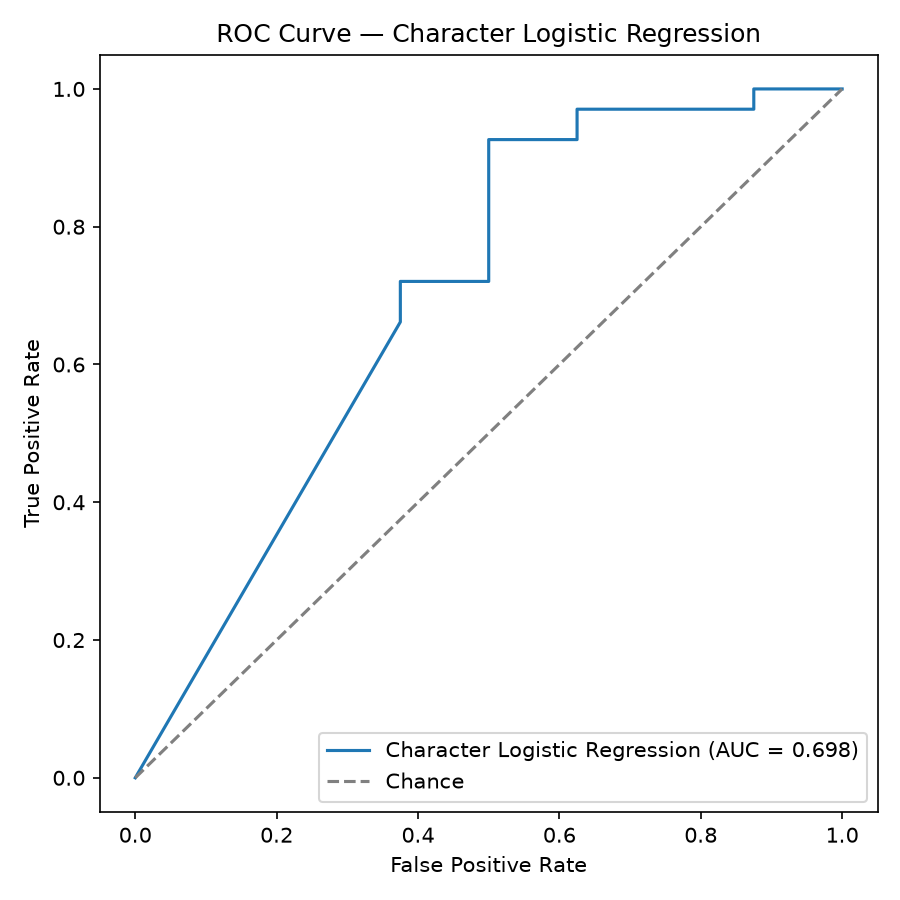
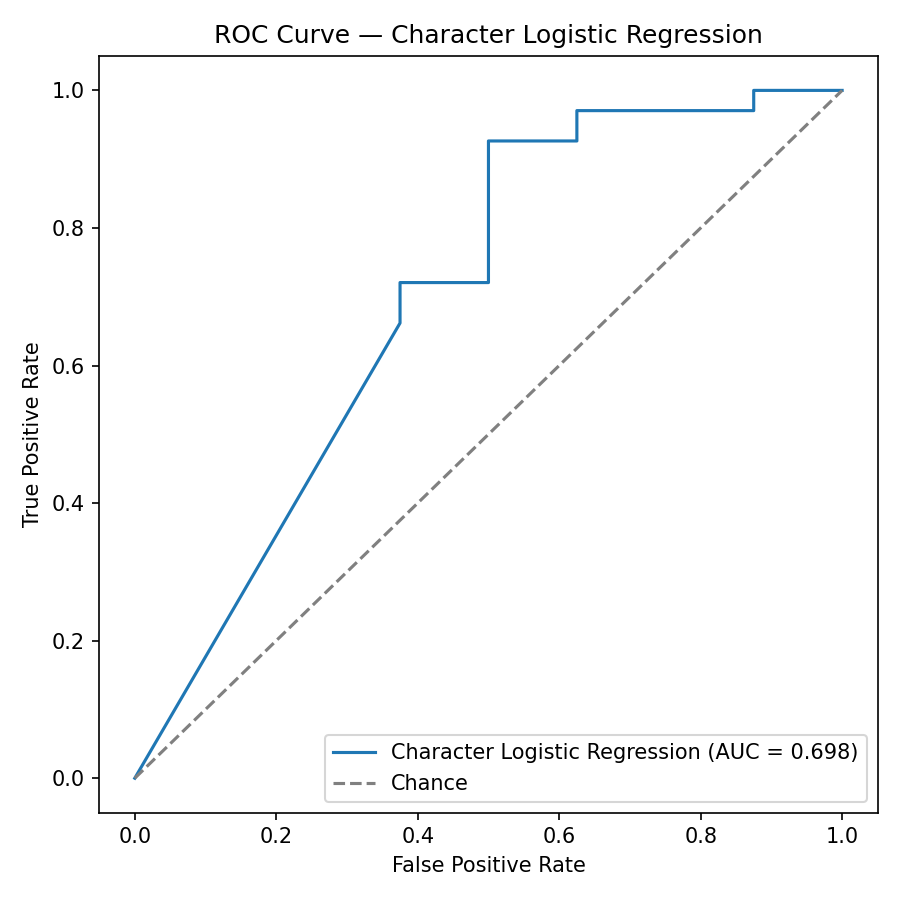
Fix champion model Windows path bug and promotion bootstrap gate
- Add bootstrap check to promote_model task in ml_pipeline_dag.py so a
  fresh local MLflow registry doesn't have to beat the committed
  champion benchmark on its first run
- Retrain final candidates inside a Linux container (via docker compose
  run) instead of native Windows Python, since MLflow bakes the OS's
  path separator into the model artifact manifest at logging time --
  this was the root cause of the char_logistic.joblib backslash error
  breaking model loading in the Linux API container
- Update run_full_pipeline.ps1 to train/register the champion model
  inside the api container rather than the host Windows environment
- Replace deprecated penalty='l1' with l1_ratio=1 in
  build_char_logistic per sklearn 1.8 LogisticRegression API

diff --git a/dags/ml_pipeline_dag.py b/dags/ml_pipeline_dag.py
@@ -108,6 +108,33 @@ def _promote_model(**context):
         logger.warning("Candidate run %s has no validation_roc_auc metric. Skipping.", run_id)
         return "skipped — missing validation metric"
 
+    # ---- Bootstrap check: does THIS person's local registry already
+    # have a champion at all? ----
+    # champion_config.json is committed to git and reflects whoever's
+    # training run set the current benchmark -- it is NOT specific to
+    # any one person's local MLflow registry (each teammate's registry
+    # is local-only, per the README). Without this check, a brand-new
+    # contributor with an empty local registry would have to beat that
+    # committed benchmark on their very first run just to get ANY
+    # champion registered locally -- a real coin-flip given this model's
+    # own documented run-to-run noise (repeated_cv_std_roc_auc ~ 0.09),
+    # and a silent failure (no error, just "skipped") if they lose it.
+    has_local_champion = True
+    try:
+        client.get_model_version_by_alias(registered_model_name, champion_alias)
+    except Exception:
+        has_local_champion = False
+
+    if not has_local_champion:
+        logger.info(
+            "No champion registered in this local MLflow registry yet -- "
+            "treating this as a bootstrap run and promoting unconditionally, "
+            "regardless of the committed champion_config.json benchmark "
+            "(%s=%.4f).",
+            metric_key, current_best,
+        )
+        current_best = 0.0  # bypass the gate below for this run only
+
     logger.info(
         "Candidate validation_roc_auc=%.4f  vs  champion %s=%.4f",
         candidate_value, metric_key, current_best,

diff --git a/models/train_final_candidates.py b/models/train_final_candidates.py
@@ -210,7 +210,7 @@ def build_char_logistic() -> Pipeline:
                 "model",
                 LogisticRegression(
                     C=3.0,
-                    penalty="l1",
+                    l1_ratio=1,
                     class_weight=None,
                     solver="liblinear",
                     max_iter=5000,
